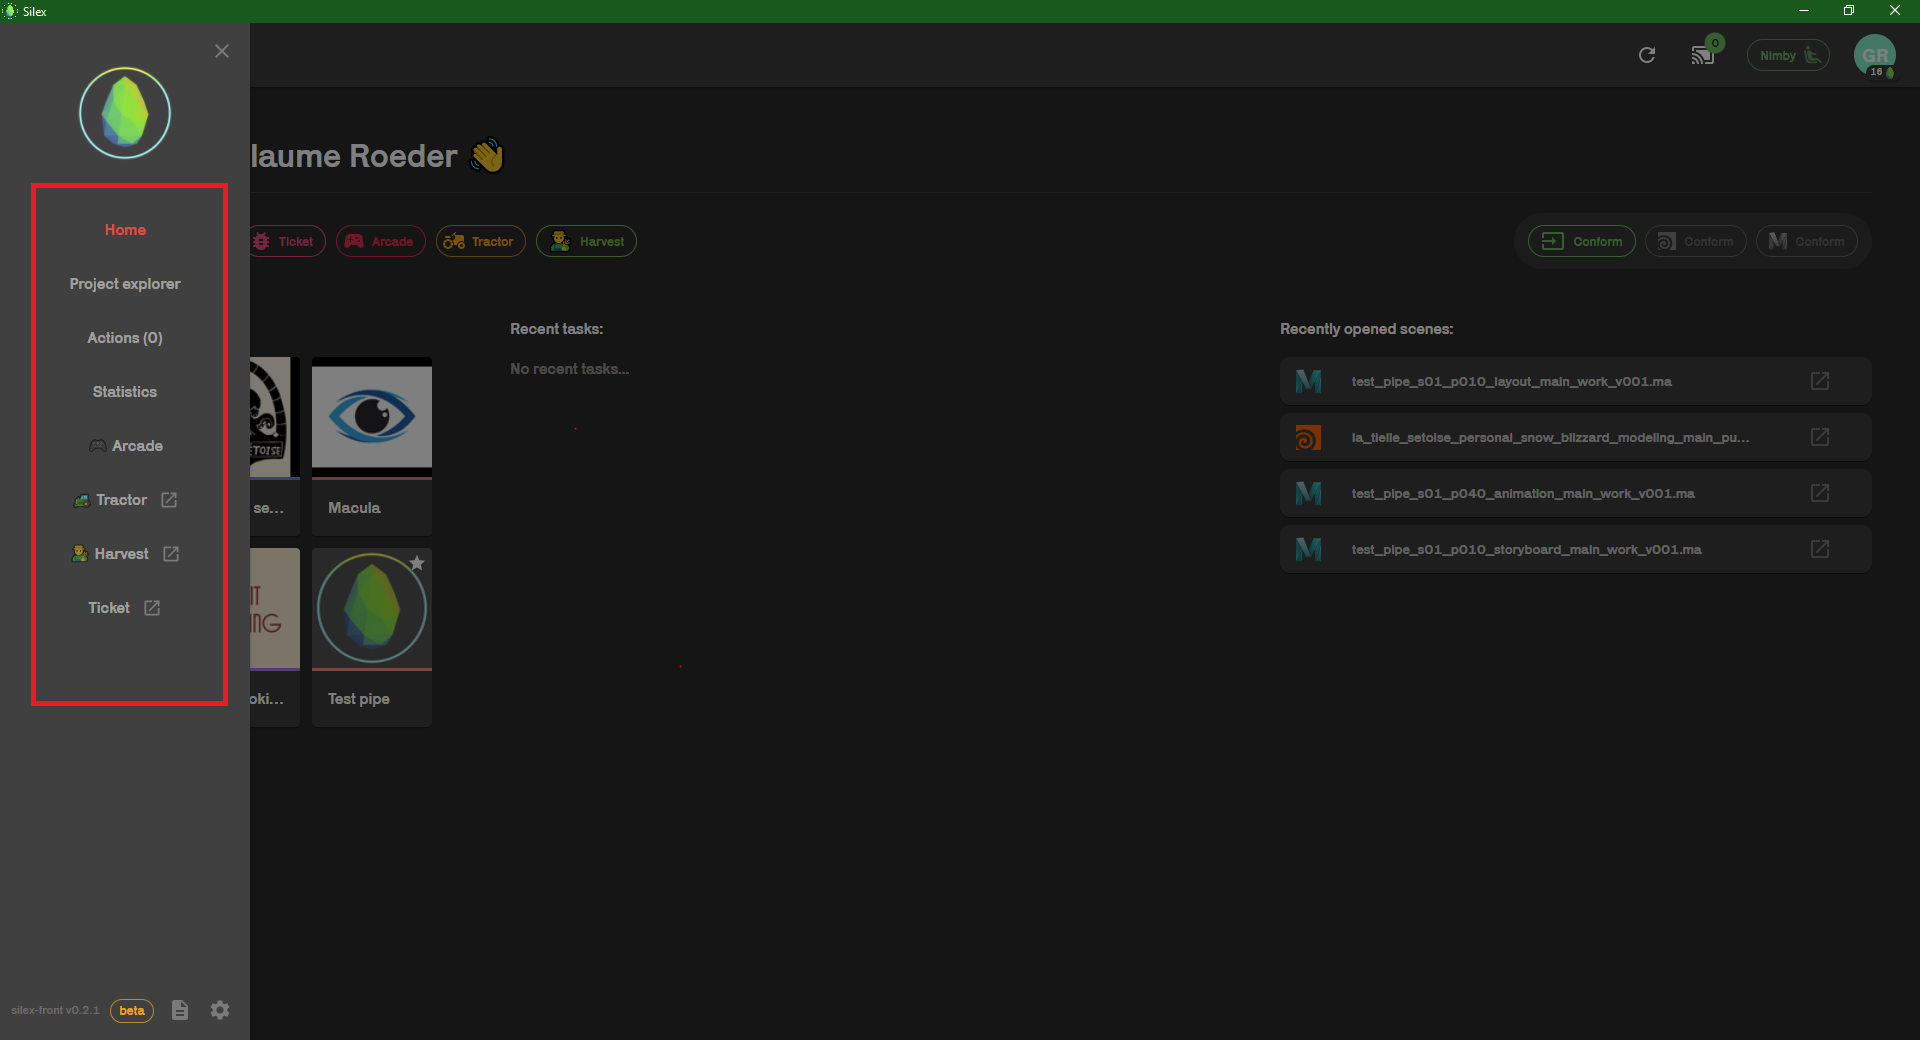
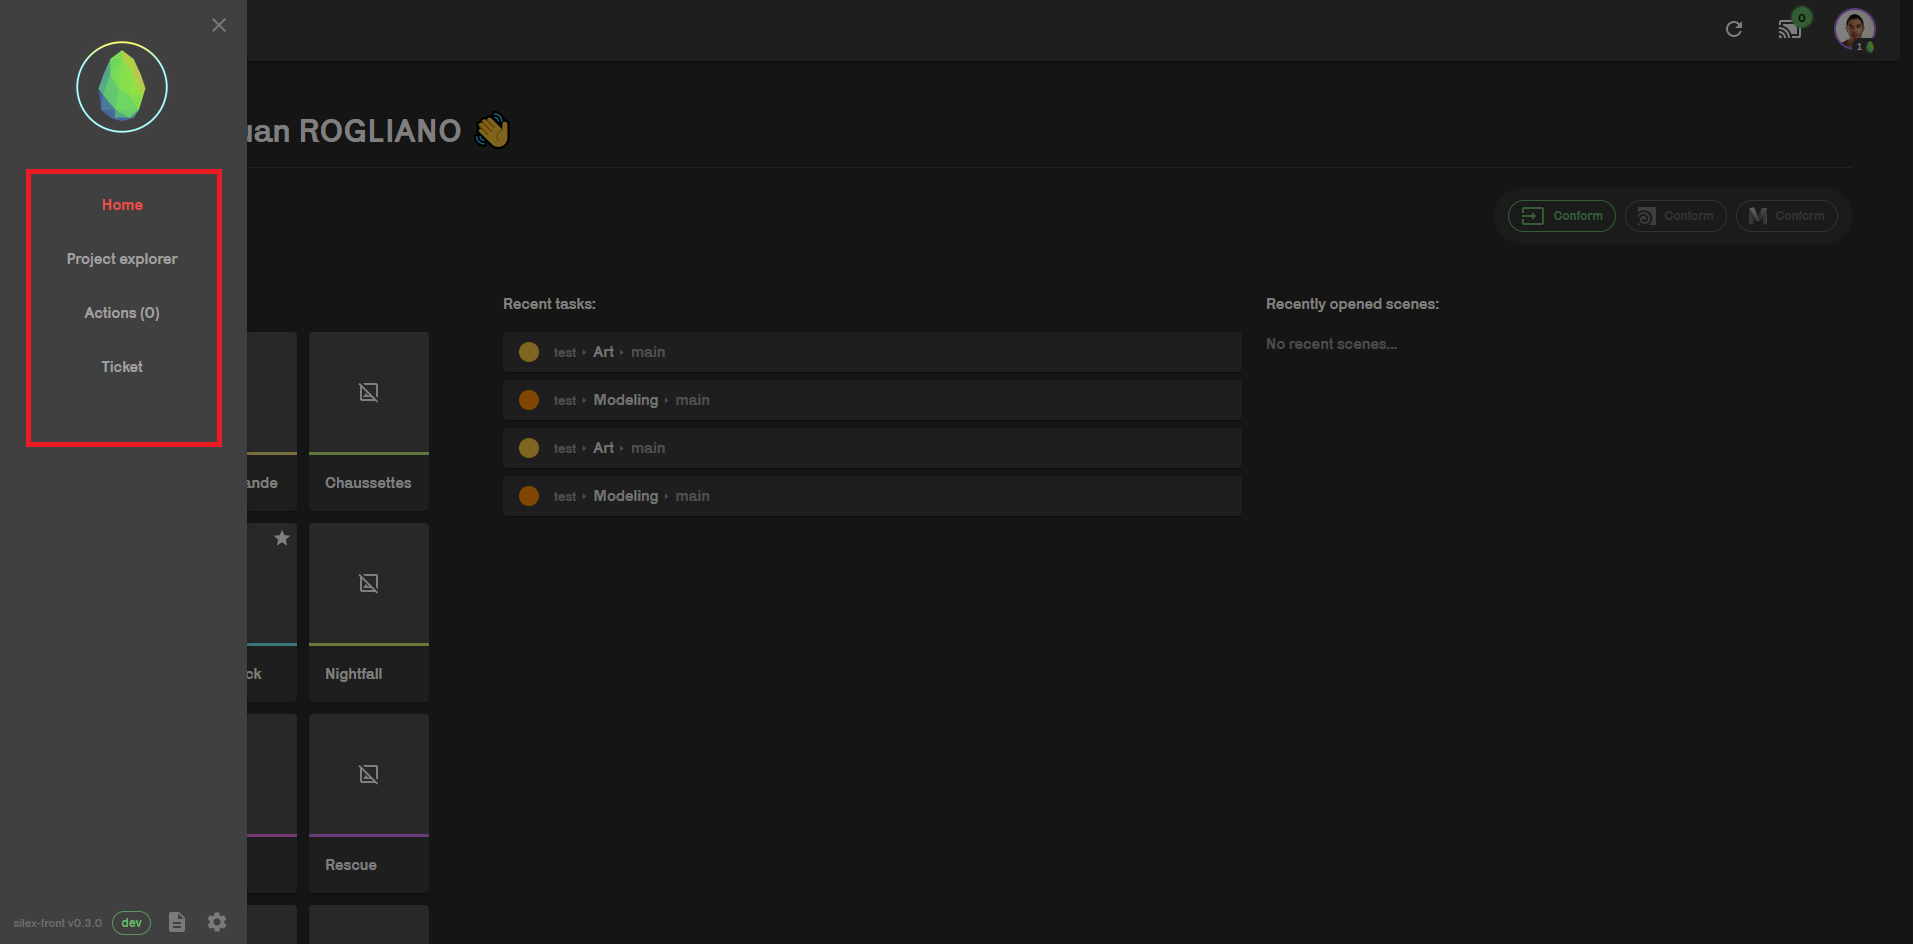
before push

diff --git a/docs/user/interface/interface.md b/docs/user/interface/interface.md
@@ -5,15 +5,7 @@ sidebar_position: 30
 ---
 
 ## Home page
-
-![](/img/silex_logo.png)
-
 ---
-
-Hello newbies ! 🖖
-
-Welcome to Silex, a pipeline application which gives you access to the render farm and allows you to browse through your shots and assets, and many other things ! (you'll see, it's very fun)
-
 When opening Silex, you just need to connect with your Kitsu acount.
 after that, the home page will be displayed.
 
@@ -51,15 +43,13 @@ This section displays your account avatar, the Nimby status, access to the list 
 
 1- Hamberger menu.
 
-2- Update button : Reload the interface (useful if some newly created files don't show or if new features don't appear). You can use the **very precious** CTRL + R [shortcut](../shortcuts.md) to trigger the same result.
+2- Update button : Reload the interface (useful if some newly created files don't show or if new features don't appear). You can use the **very precious** CTRL + R [shortcut](shortcuts) to trigger the same result.
 
 3- List of running software :
 
 ![](/img/user_guide/home_page/silex_home_page_running_software.png)
 
-4- Nimby : allows you to turn on/off the [nimby](nimby.md).
-
-5- Account profile :
+4- Account profile :
 
 ![](/img/user_guide/home_page/silex_home_page_profile.png)
 
@@ -76,12 +66,4 @@ This menu gives you acces to all the services on Silex.
 - **Project explorer** : This is a [file explorer](file-explorer.md) that let you browse through the files in your projects.
 - **Actions** : This shows all running [actions](../basic-concepts/actions/actions.md) on you computer.
 
-- **Statistics** : This represents the rendered frames progression of each team through the year. Try and reach the top as fast as you can 📈.
-
-- **Arcade** : Here you can find flappy-bird like games, inspired by promo2022 movies. Play them to win some Silex coins ! (But not to much)
-
-- **Tractor** : Tractor is the school [renderfarm](../renderfarm/renderfarm.md).
-
-- **Harvest** : This will redirect you to [Harvest](../harvest/harvest.md). A statistic tool relaying different information on the renderfarm.
-
-- **Ticket** : Access to the ticket system. see with the TDs if they are using it.
+- **Ticket** : Access to the [tickets](tickets.md) system.

diff --git a/docs/user/basic-concepts/actions/save.md b/docs/user/basic-concepts/actions/save.md
@@ -3,6 +3,8 @@ id: save
 title: Save
 sidebar_position: 20
 ---
+Do we really have to explain what **save** means?
+
 ## In Houdini
 ![](../../../../static/img/user_guide/actions/houdini_shelf/houdini_silex_shelf_save.PNG)           
 In the silex shelf, **1** is increment save, **2** is save.
@@ -13,10 +15,10 @@ In the silex shelf, **1** is increment save, **2** is save.
 
 ## Save
 Your work files are saved in the hierarchy as follows:
-- shot : D:/project/{pfe}/shots/{sequence}/{shot}/{task}/work/{pfe}_{sequence}_{shot}_{task}_work_{version}.{extension}
-- asset : D:/project/{pfe}/assets/{asset type}/{asset name}/{task}/work/{pfe}_{asset type}_{asset name}_{task}_work_{version}.{extension}
+- shot : ```D:/project/{pfe}/shots/{sequence}/{shot}/{task}/work/{pfe}_{sequence}_{shot}_{task}_work_{version}.{extension}```
+- asset : ```D:/project/{pfe}/assets/{asset type}/{asset name}/{task}/work/{pfe}_{asset type}_{asset name}_{task}_work_{version}.{extension}```
 
-For example, this means that the cfx file for shot 01-010 can be found here : D:/project/testpipe/shots/s01/p010/cfx_main/work/testpipe_s01_p010_cfx_main_work_v001.hipnc
+For example, this means that the cfx file for shot 01-010 can be found here : ```D:/project/testpipe/shots/s01/p010/cfx_main/work/testpipe_s01_p010_cfx_main_work_v001.hipnc```
 
 As you can see, the file has a version. If you work on your file and click on **save** button, your updates will be saved on the same file. If you click on **increment save**, a new version will be created. Example : testpipe\_s01_p010_cfx_main_work\_**v001**.hipnc will become testpipe\_s01_p010_cfx_main_work\_**v002**.hipnc.
 

diff --git a/docs/user/interface/tickets.md b/docs/user/interface/tickets.md
@@ -1,0 +1,27 @@
+---
+id: tickets
+title: Tickets Page
+sidebar_position: 40
+---
+
+![](../../../static/img/user_guide/tickets_page/ticket_page.PNG)
+
+Direct link to our discord channel. Click on **"ouvrir l'application"** to open it in the discord app. The button "continuer dans le navigateur" is not working.
+## A good ticket 
+Write a good ticket makes your TD happy :\) Here are the instructions: 
+
+**Start your ticket by :**                                  
+Room : *room number*                            
+PC : *computer tqg*                             
+Student : *Name Lastname*                   
+PFE : *PFE name*     
+
+Example :                            
+Salle : 108                     
+PC : MH15-2023-006                      
+Etudiant : Mauran Perrone                       
+PFE : Rescue                
+
+If you are working on several PFE, write the one you have a problem with.
+
+Specify the version of the soft (is it Houdini Arnold or Houdini Vray?), add screenshot if relevent, give us as many detail you can.

diff --git a/docs/user/basic-concepts/actions/conform.md b/docs/user/basic-concepts/actions/conform.md
@@ -1,0 +1,19 @@
+---
+id: conform
+title: Conform
+sidebar_position: 10
+---
+To conform = Include your scenes and assets in the pipeline.
+## In Silex
+![](../../../../static/img/user_guide/home_page/home_interface_conform.png)
+Conform button is in the home page.
+## In houdini
+![](../../../../static/img/user_guide/actions/houdini_shelf/houdini_silex_shelf_conform.PNG)
+Conform button is in the silex shelf.
+## In Maya
+![](../../../../static/img/user_guide/actions/maya_shelf/maya_silex_shelf_conforme.png)             
+Conform button is in the silex shelf.
+## Action
+![](../../../../static/img/user_guide/actions/conform/action_conform_01.PNG)        
+When you click on conform button, you are simply asked which file you want to conform. Then, to wich shot or asset your want to link it.
+If **Auto select the conform type** is enable, Silex will automatically set your file according to its extension. But if you have any bugs, please disable it.

diff --git a/docs/user/basic-concepts/actions/publish.md b/docs/user/basic-concepts/actions/publish.md
@@ -1,10 +1,10 @@
 ---
 id: publish
 title: Publish
-sidebar_position: 10
+sidebar_position: 30
 ---
-**Publish** is the action of sending a version of your files to a shared space.
-To share your files with colleagues, you need to publish them. In fact, it's not your work files that will be shared, but a copy or export of them that will be saved on the network.
+**Publish** is the action of sending a version of your files to a shared space. Basicaly, it's **exporting files for the next step in the pipeline.**
+In fact, it's not your work files that will be shared, but a copy or export of them that will be saved on the network.
 To use the renderfarm, all you files submitted must have been published.
 
 ## In Houdini

diff --git a/docs/user/presentation.md b/docs/user/presentation.md
@@ -4,5 +4,11 @@ title: Presentation
 sidebar_position: 10
 ---
 
+![](/img/silex_logo.png)
+
+Hello newbies ! 🖖
+
+Welcome to Silex, a pipeline application which gives you access to the render farm and allows you to browse through your shots and assets, and many other things ! (you'll see, it's very fun)
+
 **Silex** (pronounced /ˈsaɪlɛks/) is the name given to a set of pipeline applications here at ArtFX.
 It was originally created for the 2021-2022 promotion.

diff --git a/docs/user/basic-concepts/actions/actions.md b/docs/user/basic-concepts/actions/actions.md
@@ -3,4 +3,4 @@ id: actions
 title: Actions
 sidebar_position: 20
 ---
-This section describes the various actions you can execute in silex. 
+This section describes the various actions you can execute in silex or in silex integration in DCCs.

diff --git a/docs/user/interface/shortcuts.md b/docs/user/interface/shortcuts.md
@@ -1,0 +1,6 @@
+---
+id: shortcuts
+title: Shortcuts
+sidebar_position: 30
+---
+**\[ctrl\] + \[R\]** : refresh silex desktop interface.
